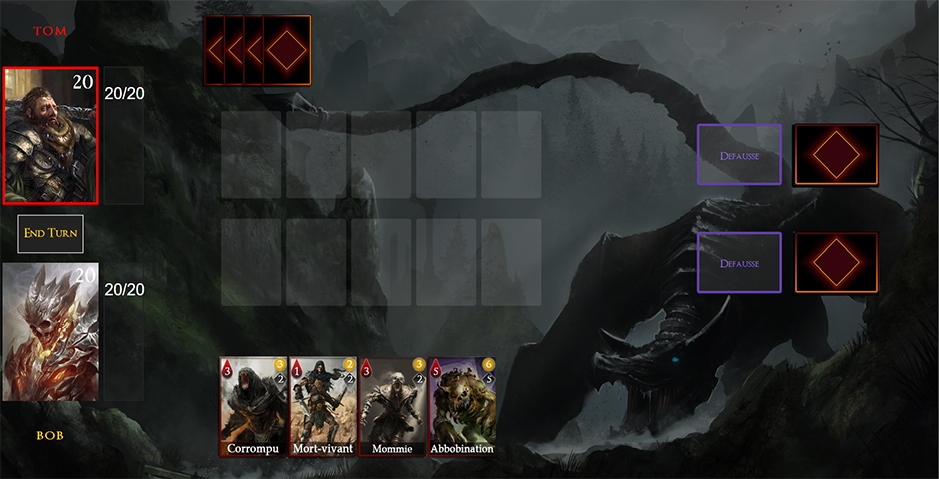
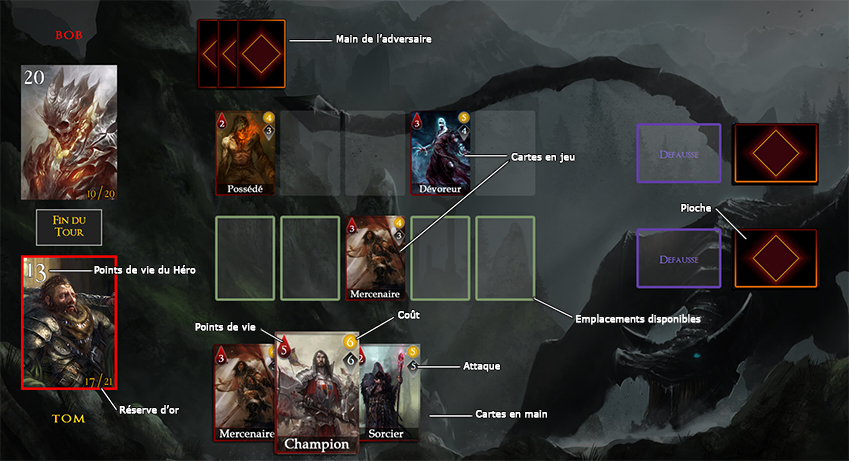
minor changes on game screen

diff --git a/public/stylesheets/styles.css b/public/stylesheets/styles.css
@@ -536,8 +536,11 @@ a {
       margin: auto;
       color: #ffd40c;
       font-family: "optimusprincepsregular", serif;
-      font-size: 1.5em;
+      font-size: 1.1em;
       border: 2px solid #b3b3b3; }
+      @media screen and (min-width: 1600px) and (min-height: 900px) {
+        #board-left .button-container button {
+          font-size: 1.5em; } }
   #board-left .avatarContainer {
     width: 100%;
     height: 45%;
@@ -554,12 +557,25 @@ a {
         #board-left .avatarContainer .avatar-box {
           width: 192px;
           height: 269px; } }
-      #board-left .avatarContainer .avatar-box p {
+      #board-left .avatarContainer .avatar-box .player-health {
         color: white;
         font-size: 4em;
         text-align: right;
         position: absolute;
         top: 0;
+        left: 0;
+        margin: 0;
+        padding: 5px;
+        font-family: "Humanistic";
+        line-height: 0.5em;
+        text-shadow: -1px 0 black, 0 1px black, 1px 0 black, 0 -1px black; }
+      #board-left .avatarContainer .avatar-box .player-resource {
+        color: #D6A208;
+        text-shadow: -2px 0 black, 0 2px black, 2px 0 black, 0 -2px black;
+        font-size: 2em;
+        text-align: right;
+        position: absolute;
+        bottom: 0;
         right: 0;
         margin: 0;
         padding: 5px;
@@ -743,7 +759,7 @@ a {
       font-family: "optimusprincepsregular", serif;
       font-size: 1.3em;
       text-align: center; }
-    #board-right .middle-row .deck-box .card {
+    #board-right .middle-row .deck-box .deck-card {
       width: 170px;
       height: 120px;
       margin: 0;
@@ -754,7 +770,8 @@ a {
       background-image: url("../images/card-back2.png");
       position: absolute;
       top: -5px;
-      left: 0px; }
+      left: 0px;
+      cursor: pointer; }
   #board-right .middle-row .deck-box:nth-child(odd) {
     display: none;
     border: 5px solid #6240a8;
@@ -807,8 +824,8 @@ a {
         width: 24px; }
       #board-right .bottom-row .card .card-attack {
         position: absolute;
-        right: 1px;
-        top: 34px;
+        right: 2px;
+        top: 37px;
         width: 24px; }
       #board-right .bottom-row .card .card-image {
         position: absolute;
@@ -833,7 +850,7 @@ a {
     border-bottom: none;
     height: 200px;
     padding: 10px 20px;
-    font-family: "optimusprincepsregular", serif;
+    font-family: 'Humanistic', serif;
     color: white;
     right: 5%; }
     #board-right #info-container h3 {

diff --git a/public/stylesheets/styles.scss b/public/stylesheets/styles.scss
@@ -862,8 +862,11 @@ a {
             margin: auto;
             color: $yellow;
             font-family: $optimus, serif;
-            font-size: 1.5em;
+            font-size: 1.1em;
             border: 2px solid lighten(grey, 20%);
+            @media screen and (min-width: 1600px) and (min-height: 900px) {
+                font-size: 1.5em;
+            }  
         }
     }
 
@@ -891,12 +894,27 @@ a {
             background-color: rgba(255, 255, 255, 0.1);
             overflow: hidden;
 
-            p {
+            .player-health {
                 color: white;
                 font-size: 4em;
                 text-align: right;
                 position: absolute;
                 top: 0;
+                left: 0;
+                margin: 0;
+                padding: 5px;
+                font-family: "Humanistic";
+                line-height: 0.5em;
+                text-shadow: -1px 0 black, 0 1px black, 1px 0 black, 0 -1px black;
+            }
+
+            .player-resource {
+                color: #D6A208;
+                text-shadow: -2px 0 black, 0 2px black, 2px 0 black, 0 -2px black;
+                font-size: 2em;
+                text-align: right;
+                position: absolute;
+                bottom: 0;
                 right: 0;
                 margin: 0;
                 padding: 5px;
@@ -1158,7 +1176,7 @@ a {
                 text-align: center;
             }
 
-            .card {
+            .deck-card {
                 width:  $card-height;
                 height: $card-width;
                 //background-color: black;
@@ -1169,7 +1187,7 @@ a {
                 position: absolute;
                 top: -5px;
                 left: 0px;
-
+                cursor: pointer;
 
 
             }
@@ -1243,8 +1261,8 @@ a {
 
                 .card-attack {
                     position: absolute;
-                    right: 1px;
-                    top: 34px;
+                    right: 2px;
+                    top: 37px;
                     width: 24px;
                 }
 
@@ -1289,7 +1307,7 @@ a {
         border-bottom: none;
         height: 200px;
         padding: 10px 20px;
-        font-family: $optimus, serif;
+        font-family: 'Humanistic', serif;
         color: white;
         right: 5%;
 

diff --git a/public/javascripts/game.js b/public/javascripts/game.js
@@ -210,13 +210,13 @@ Zepto(function($){
                             currentMoney = parseInt(data[player.login].current);
                             totalMoney = data[player.login].total;
 
-                            $(".avatarContainer:last-of-type .resource-box p").text(currentMoney + "/" + totalMoney);
+                            $(".avatarContainer:last-of-type .player-resource").text(currentMoney + "/" + totalMoney);
                         }
 
                         if (data[opponent.name]) {
                             var oppCurrent = data[opponent.name].current;
                             var oppTotal = data[opponent.name].total;
-                            $(".avatarContainer:first-of-type .resource-box p").text(oppCurrent + "/" + oppTotal);
+                            $(".avatarContainer:first-of-type .player-resource").text(oppCurrent + "/" + oppTotal);
                         }
                     }
                 });
@@ -429,12 +429,12 @@ Zepto(function($){
     };
 
     var addCardToDeck = function(deck) {
-        var $card = $("<div class='card'></div>");
+        var $card = $("<div class='deck-card'></div>");
         deck.append($card);
     };
 
     var addCardToDiscardPile = function(discardPile) {
-        var $card = $("<div class='card'></div>");
+        var $card = $("<div class='deck-card'></div>");
         discardPile.append($card);
     };
 
@@ -492,6 +492,11 @@ Zepto(function($){
             if (currentCard) {
                 $("#info-container h3").html(currentCard.name.toUpperCase());
                 $("#info-container p").last().html(currentCard.description);
+                $("#info-container p").last().append("<br/><hr>");
+                var description = "Coût: " + currentCard.cost + "<br/>";
+                description     += "Vie: " + currentCard.health + "<br/>";
+                description     += "Attaque: " + currentCard.attack;
+                $("#info-container p").last().append(description);
             }
 
 

diff --git a/routes/game.js b/routes/game.js
@@ -89,8 +89,8 @@ module.exports = function(io) {
 
             player.address = socket.handshake.address;
             player.socketId = socket.id;
-            player.currentMoney = 20;
-            player.totalMoney = 20;
+            player.currentMoney = 2;
+            player.totalMoney = 2;
             player.health = 20;
 
 
@@ -167,6 +167,7 @@ module.exports = function(io) {
 
 
         socket.on("selectsCard", function(data, callback) {
+            console.log(data);
 
             var currentPlayer = selectedRoom.players[socket.index];
 
